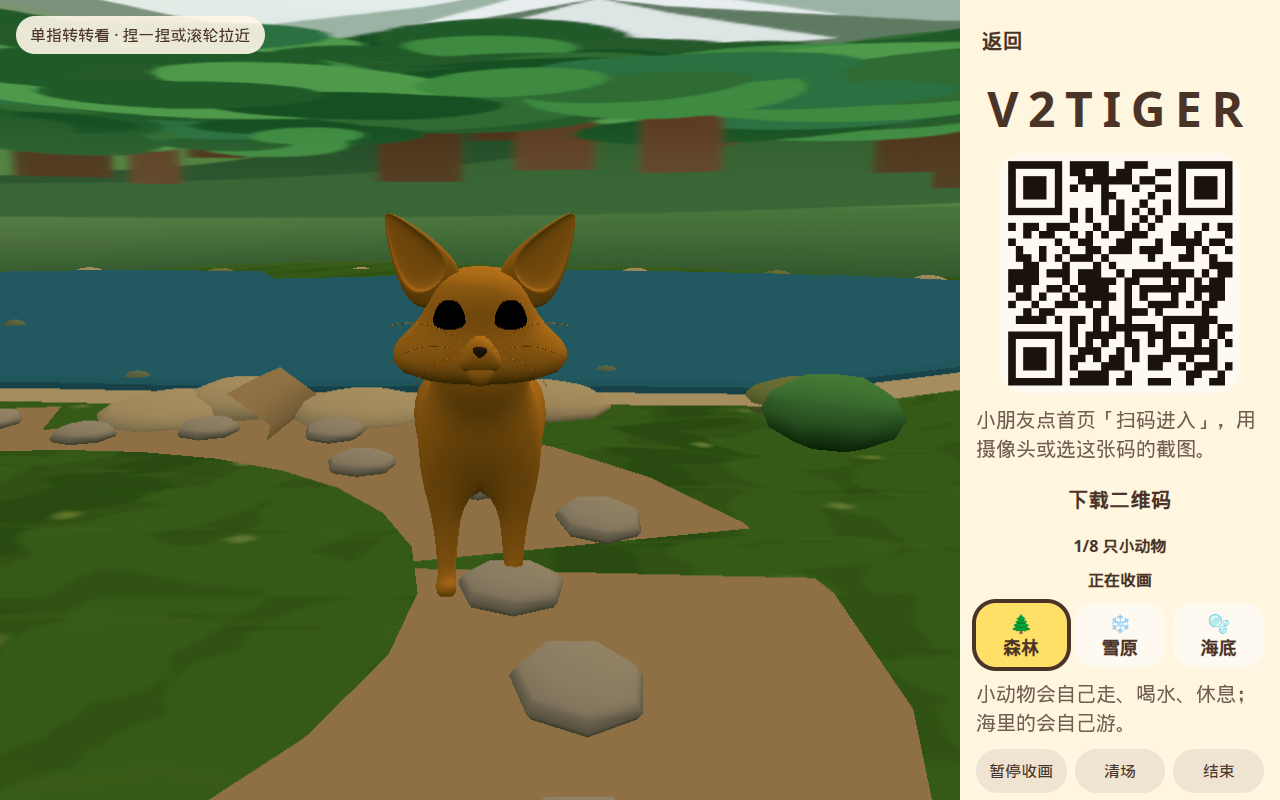
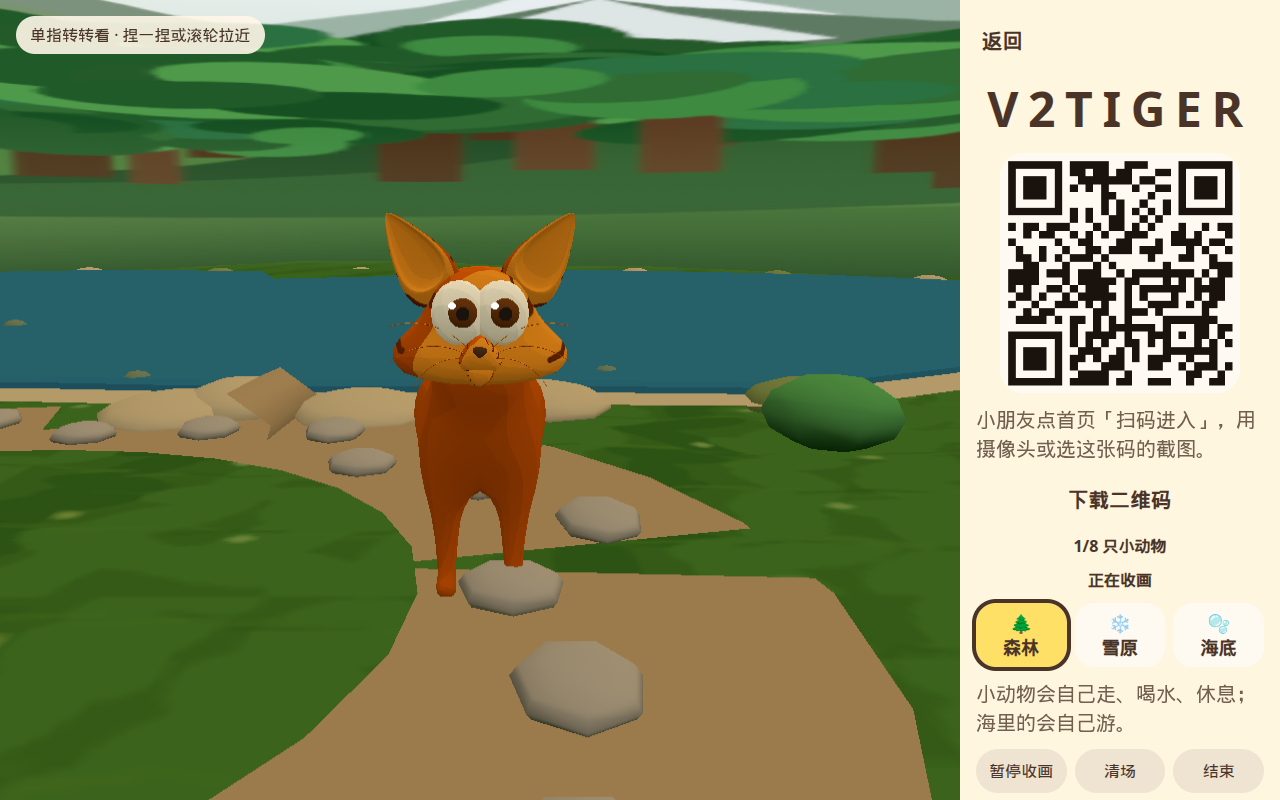
Commit toon preview shots of the lion, stag, and cat.
Coloring-book eyes and ink on the downloaded meshes; README notes the look.

diff --git a/web/src/world-exhibition/cartoon-look.ts b/web/src/world-exhibition/cartoon-look.ts
@@ -133,21 +133,17 @@ export function attachCartoonEyes(root: THREE.Object3D, animal: AnimalId): THREE
   }
   if (made.length) return made
 
-  const head = (() => {
-    let hit: THREE.Object3D | undefined
-    root.traverse((obj) => {
-      if (hit) return
-      if (obj.name === 'Head' || obj.name === 'Cube_3') hit = obj
-    })
-    return hit
-  })()
+  let head: THREE.Object3D | undefined
+  root.traverse((obj) => {
+    if (!head && obj.name === 'Head') head = obj
+  })
   if (!head) return made
   const L = stickerEye(iris)
   const R = stickerEye(iris)
-  L.scale.setScalar(0.09)
-  R.scale.setScalar(0.09)
-  L.position.set(-0.07, 0.04, 0.12)
-  R.position.set(0.07, 0.04, 0.12)
+  L.scale.setScalar(0.11)
+  R.scale.setScalar(0.11)
+  L.position.set(-0.08, 0.06, 0.16)
+  R.position.set(0.08, 0.06, 0.16)
   head.add(L, R)
   made.push(L, R)
   return made

diff --git a/README.md b/README.md
@@ -54,7 +54,7 @@ npm run dev
 
 点 **打开世界**。大森林能看出远近：高树干、层层树冠、弯岸大海，小路会伸进林子。捏合 / 滚轮可以拉近看动物、拉远看深处。侧栏可换 **森林 / 雪原 / 海底**。陆地动物会自己走路、喝水、休息、坐下（错开节拍，不会一起摆同一个姿势）；海洋动物一直在湾里游，不会走上小路。
 
-**3D 动物**是网上拉下来的 **glTF**（`web/public/models/*.glb`）：狮是 [Zsky Animal Pack](https://opengameart.org/content/animal-pack-0)（CC BY，署名 Zsky）；鹿是 [Quaternius Ultimate Animated Animals](https://quaternius.com/packs/ultimateanimatedanimals.html) 的 Stag（CC0，带 Walk）；虎暂无独立老虎 glTF，用同一套 Zsky 的猫；鱼 / 海豚 / 海龟用 [Gobkit](https://gobkit.com/api/free) CC0（河豚、鲸、海豹——海龟没有可下载的 glTF）。孩子涂的色乘在皮毛材质上，眼睛留在模型上。来源见 [`web/public/models/NOTICE.md`](web/public/models/NOTICE.md)。不要把千图网 PNG 当模型，也不要用胶囊 / marching cubes 拼动物。
+**3D 动物**是网上拉下来的 **glTF**（`web/public/models/*.glb`）：狮是 [Zsky Animal Pack](https://opengameart.org/content/animal-pack-0)（CC BY，署名 Zsky）；鹿是 [Quaternius Ultimate Animated Animals](https://quaternius.com/packs/ultimateanimatedanimals.html) 的 Stag（CC0，带 Walk）；虎暂无独立老虎 glTF，用同一套 Zsky 的猫；鱼 / 海豚 / 海龟用 [Gobkit](https://gobkit.com/api/free) CC0（河豚、鲸、海豹——海龟没有可下载的 glTF）。孩子涂的色乘在皮毛材质上，眼睛是圆圆的贴纸瞳仁；身上有卡通分层光和墨线描边。来源见 [`web/public/models/NOTICE.md`](web/public/models/NOTICE.md)。不要把千图网 PNG 当模型，也不要用胶囊 / marching cubes 拼动物。
 
 **纸上涂色**
 3. 涂色页有大按钮 **重选动物**、**保存草稿**（最多 10 张）和 **我的草稿**。格子满了会让你点一张旧的换掉，不用输房号。首页也可进「我的草稿」。
